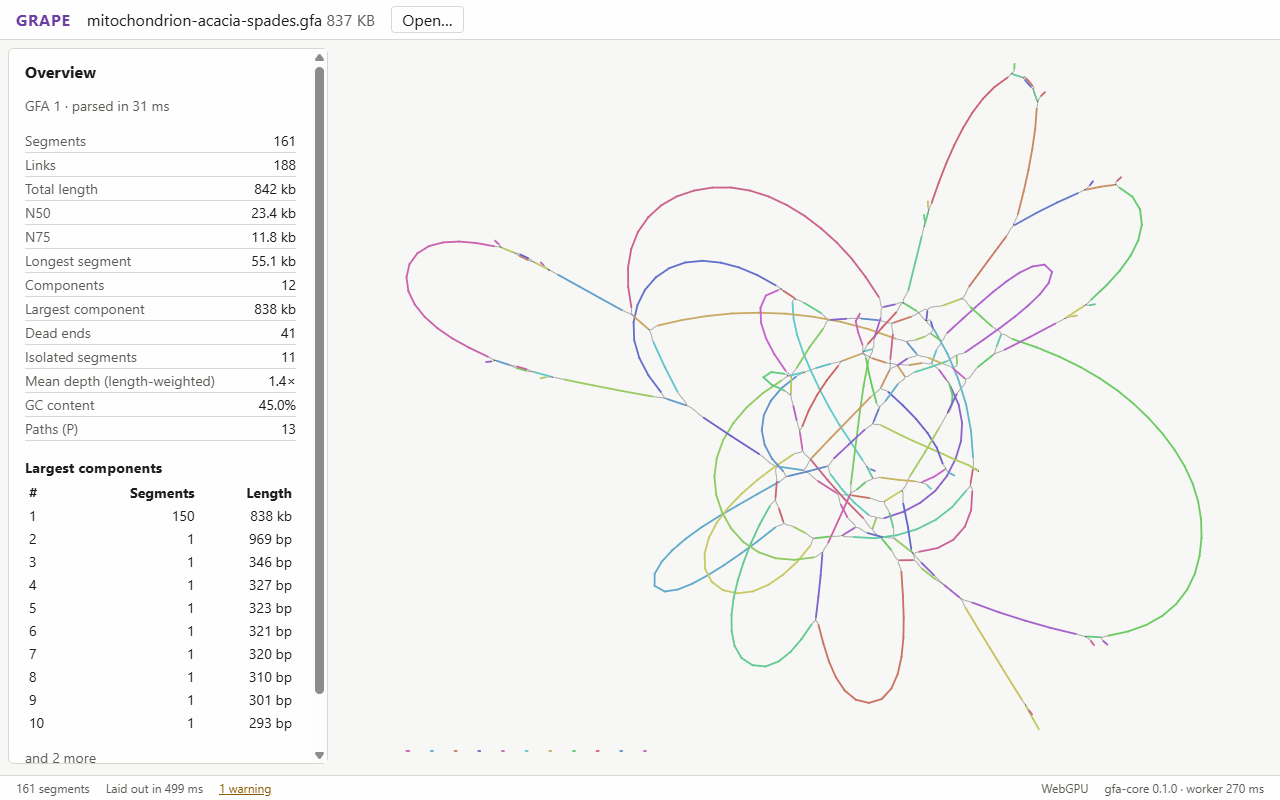
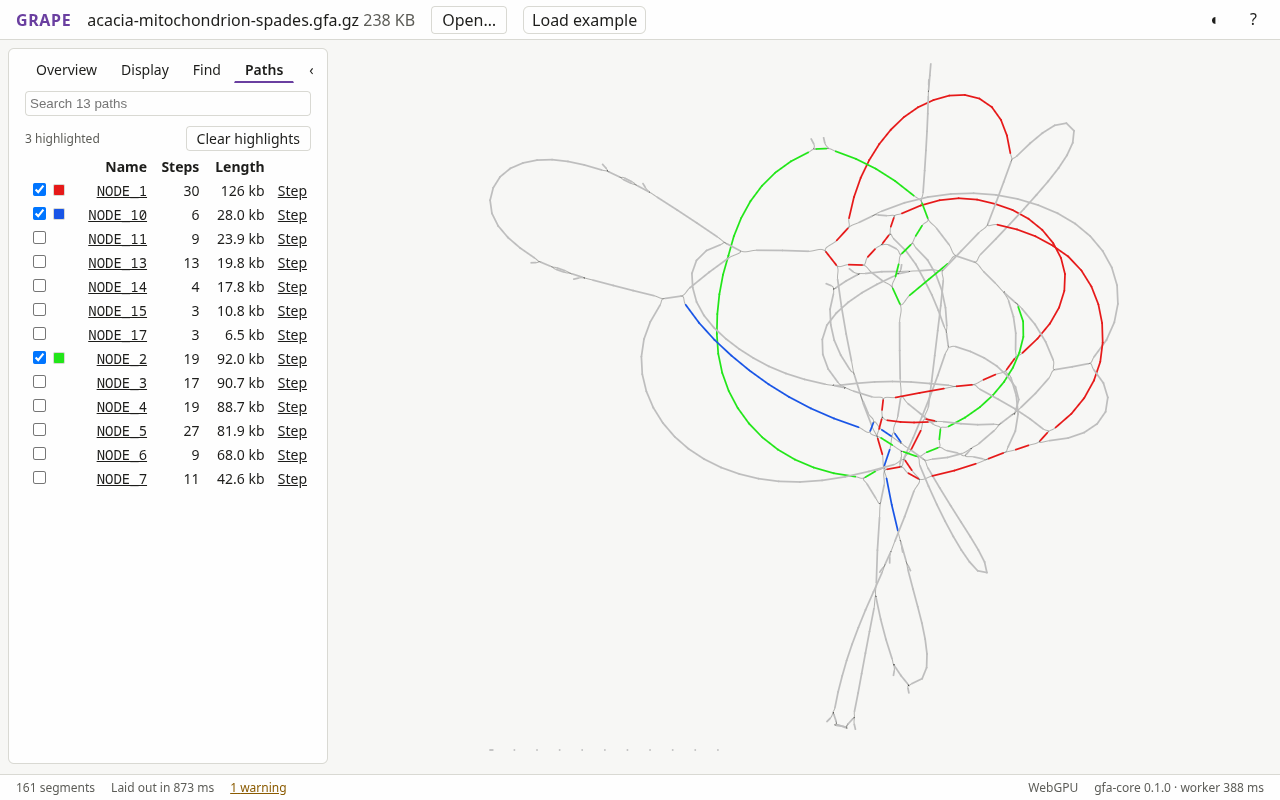
Show highlighted paths in the readme screenshot and list the newer features

diff --git a/README.md b/README.md
@@ -9,22 +9,36 @@ assembly graphs. Drop a GFA file on the page and see it laid out and drawn on th
 Nothing is installed and nothing is uploaded: parsing, layout and rendering
 all run on your machine.
 
-![GRAPE showing an Acacia mitochondrion assembly graph](assets/acacia-mitochondrion.png)
+![GRAPE showing an Acacia mitochondrion assembly graph with three of its paths highlighted](assets/acacia-mitochondrion.png)
 
-<sub>Acacia mitochondrion assembled by SPAdes, from
-[Zenodo 5722622](https://doi.org/10.5281/zenodo.5722622) (CC-BY-4.0).</sub>
+<sub>Acacia mitochondrion assembled by SPAdes, with three of its contig paths
+highlighted, from [Zenodo 5722622](https://doi.org/10.5281/zenodo.5722622)
+(CC-BY-4.0). It is one of the bundled examples under Load example.</sub>
 
 ## Features
 
 - GFA 1.0 and 1.1 and SPAdes-style FASTG, plain, gzipped or bgzipped, up to
   1 million segments and 1.5 million links. Larger graphs still load, with a
   warning.
-- Graph stats, components and parse warnings with line numbers.
+- Graph stats, a sortable table of components (length, mean depth, whether
+  it closes into a circle) and parse warnings with line numbers.
+- Four bundled example graphs under Load example.
 - Segments drawn as ribbons and links as curves, in Bandage's style.
 - Multilevel force-directed layout on the GPU that you watch settle, with
   pause, resume, a seed you can set (the same seed gives the same layout) and
   Fast, Balanced and Best presets. A 200k-segment graph settles in under a
   minute on integrated graphics; see [bench/results.md](bench/results.md).
+- Colour by depth (linear or log, adjustable range), GC, length, component,
+  path, Bandage's CL/C2 tags or at random, with legends; width by depth;
+  labels that never overlap; Bandage's double mode with both strands; light
+  and dark themes.
+- Paths (P) and walks (W): search them, highlight several in their own
+  colours and step through one segment by segment.
+- Filters that hide without a new layout: within N steps of the selection,
+  only the selected components, components under a size, a depth range.
+- Merge simple chains as Bandage's "Merge all possible nodes" does, and save
+  the merged graph as GFA in Bandage's format.
+- Graphs saved without sequences (ABySS style) take them from a FASTA file.
 - Drag to pan, scroll or pinch to zoom, arrow keys and +/-, F to fit.
 - Click a segment to see its length, depth, GC, component, neighbours, its
   line in the file and the ends of its sequence; shift-click to add or
@@ -36,7 +50,9 @@ all run on your machine.
   out just the selection again.
 - Keyboard shortcuts for all of the above; press `?` for the list.
 
-GRAPE needs WebGPU: current desktop Chrome or Edge. Try it at
+GRAPE draws with WebGPU where the browser has it (current desktop Chrome and
+Edge, Safari 26, Firefox on Windows) and with WebGL2 everywhere else, with the
+same features: Chrome 56, Edge 79, Firefox 51, Safari 15 or later. Try it at
 [vikmanou.github.io/GRAPE](https://vikmanou.github.io/GRAPE/).
 
 ## Development
